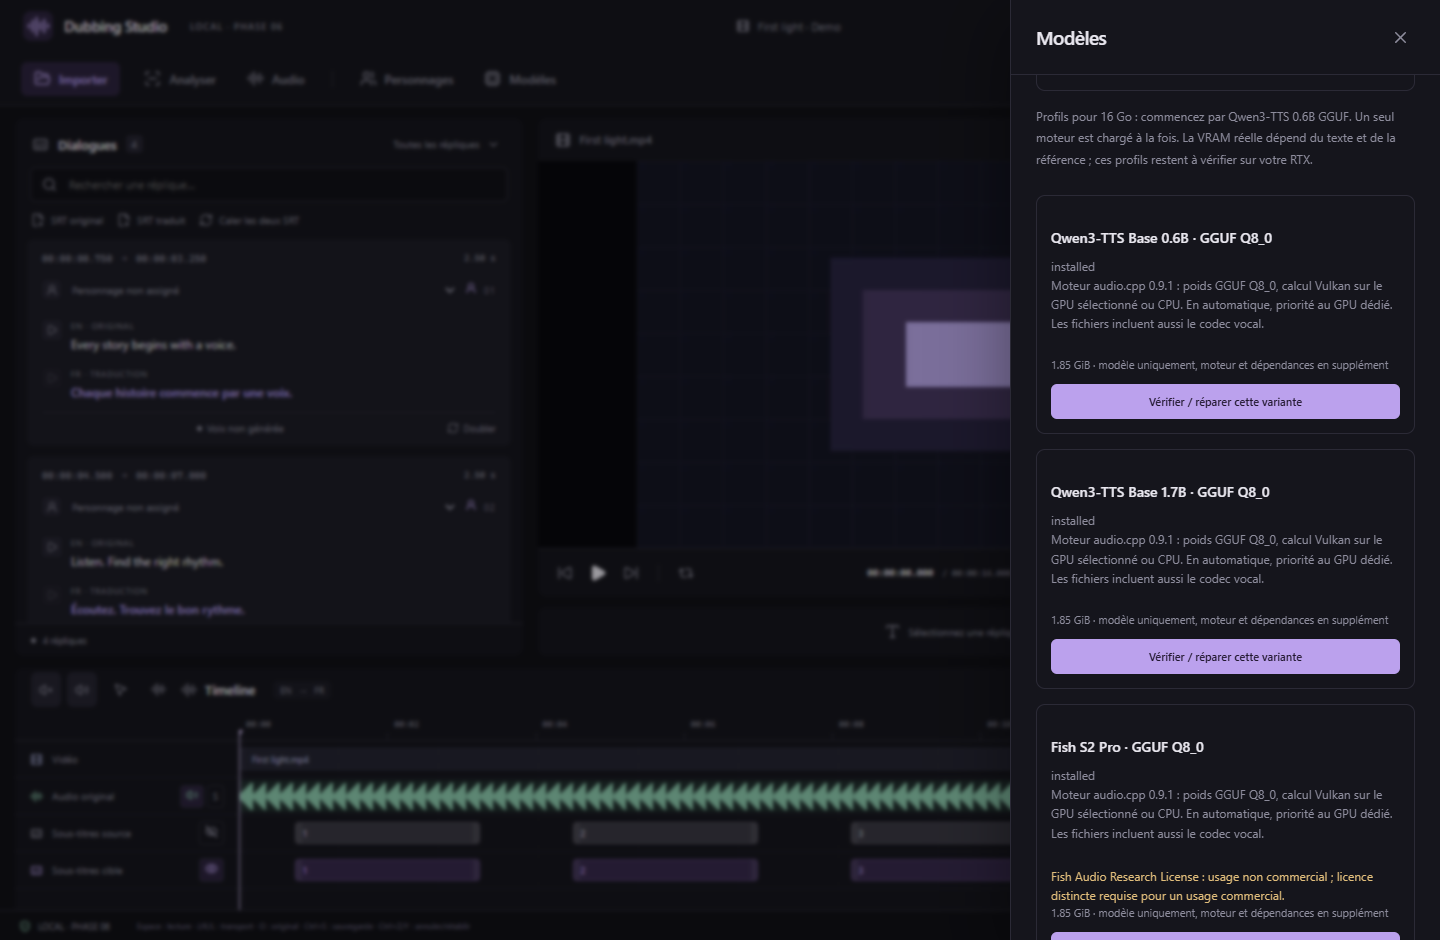
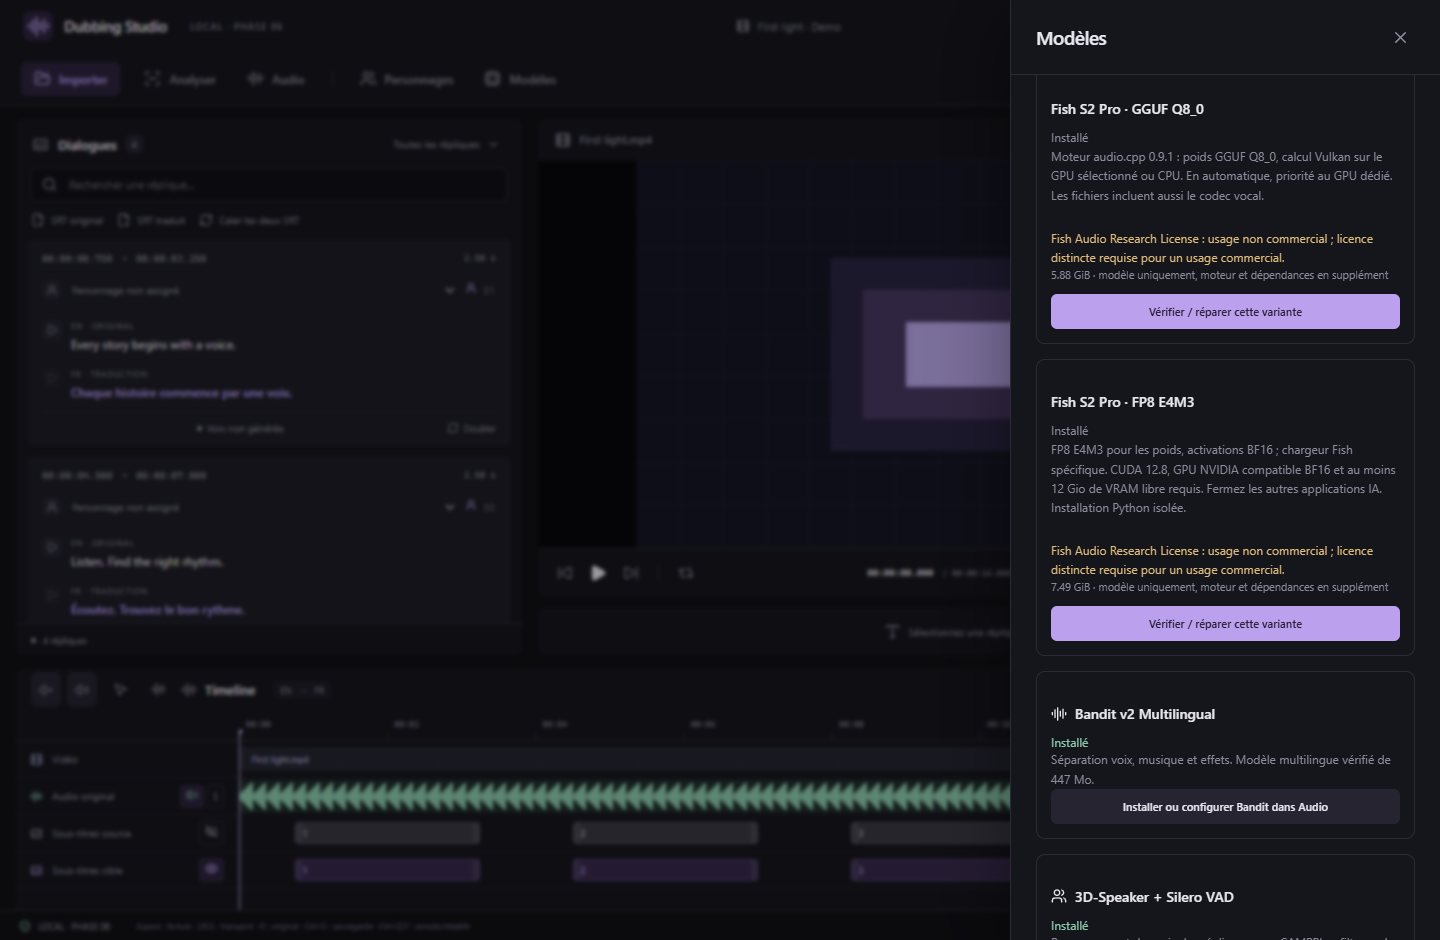
Polish model status and document verified Fish FP8 pipeline

Changed region(s): [[0.7188, 0.2468, 1.0, 0.8947], [0.7188, 0.0926, 0.9688, 0.216], [0.7188, 0.9255, 0.9688, 1.0]]

diff --git a/tests/e2e/nativeMock.ts b/tests/e2e/nativeMock.ts
@@ -31,7 +31,7 @@ export async function nativeMock(page: Page, large = false) {
     host.__TAURI_INTERNALS__={metadata:{currentWindow:{label:'main'}},convertFileSrc:(path:string)=>path.endsWith('.wav')?`/audio/${path.split('/').at(-1)}`:'/preview.mp4',transformCallback:(fn:(data:any)=>void)=>{const id=++counter;callbacks.set(id,fn);return id;},unregisterCallback:(id:number)=>callbacks.delete(id),invoke:async(command:string,args:any={})=>{
       host.__calls.push({command,args:JSON.parse(JSON.stringify(args))});
       if(command==='restore_project')return structuredClone(project);
-      if(command==='voice_status')return {variants:['fish-s2-gguf-q8','qwen3-06b-gguf-q8','qwen3-17b-gguf-q8','fish-s2-fp8'].map(id=>({id,installed:true,sizeBytes:1991211136})),devices:[{id:'vulkan:0',name:'Ryzen iGPU (simulation)'},{id:'vulkan:1',name:'RTX 5060 Ti (simulation)',discrete:true},{id:'cpu',name:'CPU'}],cudaDevices:[{id:'cuda:0',name:'RTX 5060 Ti (simulation)'}]};
+      if(command==='voice_status')return {variants:Object.entries({'fish-s2-gguf-q8':6317911232,'qwen3-06b-gguf-q8':1991211136,'qwen3-17b-gguf-q8':2695175104,'fish-s2-fp8':8047624252}).map(([id,sizeBytes])=>({id,installed:true,sizeBytes})),devices:[{id:'vulkan:0',name:'Ryzen iGPU (simulation)'},{id:'vulkan:1',name:'RTX 5060 Ti (simulation)',discrete:true},{id:'cpu',name:'CPU'}],cudaDevices:[{id:'cuda:0',name:'RTX 5060 Ti (simulation)'}]};
         if(command==='install_voice_runtime')return 'install-voice';
         if(command==='tts_status')return {installed:host.__ttsReady,installing:false,sizeBytes:5427042285,inventory:{devices:[{id:'cpu',name:'CPU'},{id:'cuda:0',name:'NVIDIA RTX 5060 Ti (simulation)'}],cudaVersion:'12.8'}};
       if(command==='install_tts_runtime'){job={id:'tts-install',projectId:'',kind:'ttsInstall',status:'running',stage:'dependencies',progress:null,logs:[],error:null};emit('job-changed',job);return job.id;}

diff --git a/tests/e2e/phase6.pw.ts b/tests/e2e/phase6.pw.ts
@@ -40,9 +40,9 @@ test('models expose installable GGUF and FP8 variants with sizes and license inf
   await nativeMock(page); await page.goto('/'); await page.getByRole('button', { name: 'Modèles', exact: true }).click();
   const panel = page.getByRole('dialog', { name: 'Modèles' });
   const card = panel.locator('.model-card').filter({ has: page.getByRole('heading', { name: 'Fish S2 Pro · FP8 E4M3', exact: true }) });
-  await expect(card.getByText(/1.85 GiB/)).toBeVisible();
+  await expect(card.getByText(/7.49 GiB/)).toBeVisible();
   await expect(card.getByText(/Fish Audio Research License/)).toBeVisible();
-  await panel.locator('.panel-body').evaluate((element) => { element.scrollTop = 380; });
+  await card.scrollIntoViewIfNeeded();
   await page.screenshot({ path: 'docs/screenshots/phase6-models.png' });
   await card.getByRole('button', { name: 'Vérifier / réparer cette variante' }).click();
   expect(await page.evaluate(() => (window as any).__calls.some((c: any) => c.command === 'install_voice_runtime' && c.args.variantId === 'fish-s2-fp8'))).toBe(true);

diff --git a/src/components/VoiceEngineModels.tsx b/src/components/VoiceEngineModels.tsx
@@ -46,7 +46,7 @@ export function VoiceEngineModels({
           return (
             <div className="model-card" key={variant.id}>
               <h3>{variant.name}</h3>
-              <p>{t(state?.installed ? 'installed' : 'ttsNotInstalled')}</p>
+            <p>{t(state?.installed ? 'modelInstalled' : 'ttsNotInstalled')}</p>
               <p className="panel-description">
                 {t(variant.backend === 'vulkan' ? 'phase6Gguf' : 'phase6Fp8')}
               </p>

diff --git a/VALIDATION.md b/VALIDATION.md
@@ -14,6 +14,8 @@ Additional tests cover persisted variants, distinct CUDA/Vulkan indices, transcr
 
 Real Fish S2 Pro GGUF Q8_0 inference on Windows/CPU also produced a WAV from a synthetic speech reference with its exact transcript. Native CLI checks caught and fixed a version-specific argument difference (`--max-tokens` in the pinned executable). Model/codec loading, reference encoding, autoregressive generation and audio decoding all completed. Actual RTX generation remains unqualified here.
 
+The production Fish FP8 synthesis core also completed a limited 8-token Windows/CPU run with the real pinned FP8 checkpoint and codec: reference encoding, FP8Linear inference, codec decoding, resampling and PCM16 output produced a 325 ms / 24 kHz WAV. This is a short pipeline integration check, not full-sentence quality validation or a CUDA/RTX benchmark. The application deliberately exposes this FP8 profile through CUDA only.
+
 ## v0.5.0 CosyVoice3
 
 Suites contain 38 TypeScript tests, 43 Rust/Linux tests (42 Windows), 27 Chrome scenarios and 13 Python tests: 121 locally, 120 on Windows. See the Windows workflow for the build commit result.
